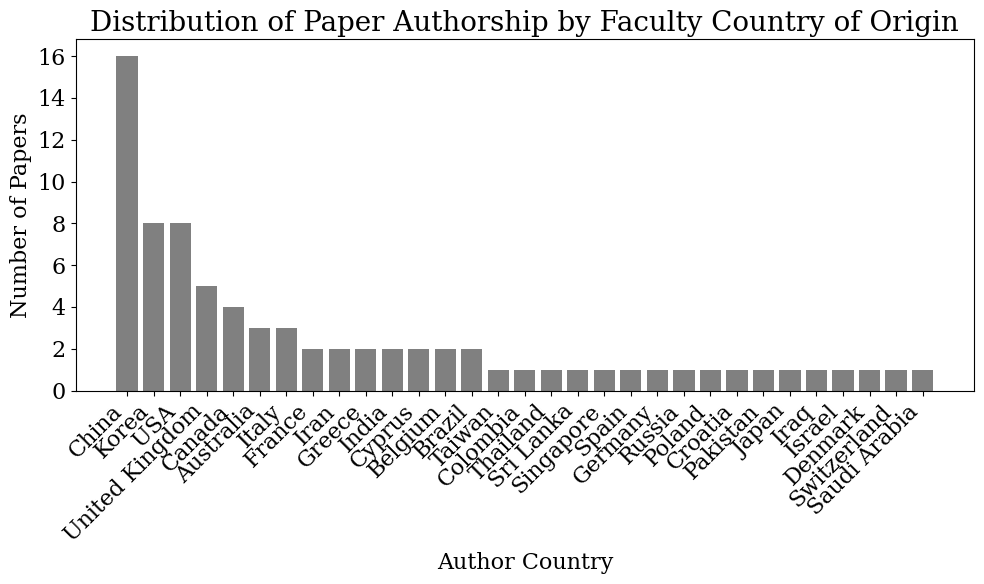
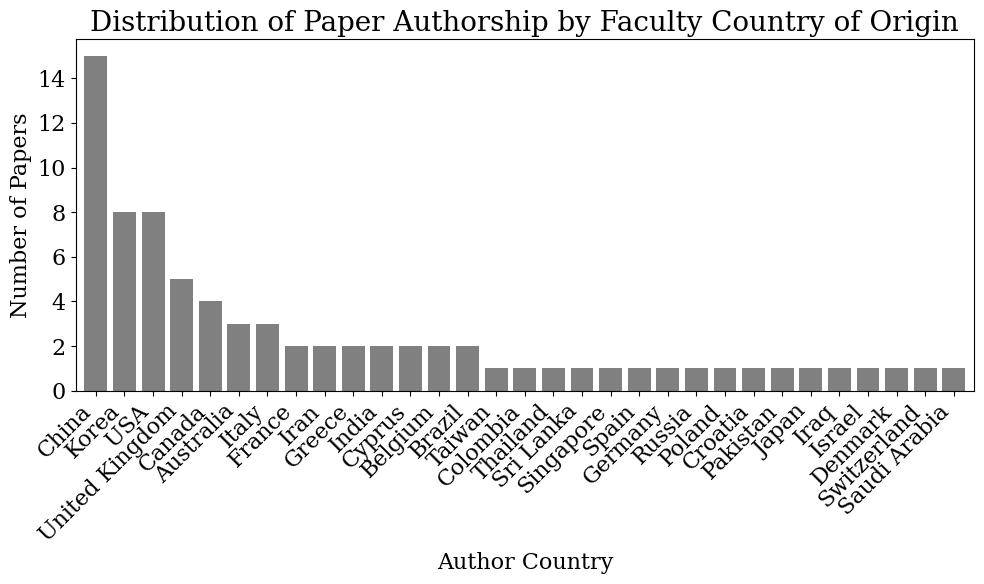
Updates from Overleaf

Changed region(s): [[0.0305, 0.0925, 1.0, 0.9247]]

diff --git a/Sections/1_introduction.tex b/Sections/1_introduction.tex
@@ -6,10 +6,11 @@
 In recent years, there has been a significant increase in the use of artificial intelligence (AI)\footnote{See Table \ref{table:abbreviations} for a list of all abbreviations used in this paper.
 } and machine learning (ML) models within finance, motivated by AI models' potential to provide price forecasts despite an efficient market \parencite{sezer2020financial}. However, a major drawback of AI models is that they are to a large extent ``black boxes'' making it difficult to understand how to interpret predictions and buy/sell recommendations. Probabilistic AI models partly alleviates this issue, as they can provide well-calibrated probabilities for different scenarios, allowing for more informed decision-making and sophisticated investment strategies. However, as this review will show, the usefulness of these probability estimates vary widely based on implementation.
 
-Despite the increasing interest in AI, financial time series modeling is still dominated by econometric models [source]. Notable examples include ARIMA-family models for predicting future values (i.e., conditional mean) and GARCH models for modeling volatility (i.e., conditional variance). The Efficient Market Hypothesis (EMH) posits that the conditional mean cannot be predicted, as all information is already incorporated into the price, and econometric models that attempt this thus has very limited predictive power, if any \parencite{Campbell2007}. However, the EMH does not preclude the possibility of predicting the conditional variance, which is essential for risk management and portfolio optimization. GARCH models are widely used for this purpose. Nevertheless, econometric models such as ARIMA and GARCH remain constrained by their simple structure, and thus cannot capture the complex patterns often present in financial data \parencite{sezer2020financial}. In contrast, AI models have shown promise in capturing these complexities but have primarily been used to provide point forecasts (i.e., conditional mean) rather than full conditional probability distributions \parencite{Tang2022Survey}. This limits both the interpretability and the practical usefulness of their predictions. Successfully applying AI models' capabilities for more complex modeling to enhance uncertainty estimates could be valuable for improving decision-making, optimizing portfolios, and identifying arbitrage opportunities in derivative pricing, among other applications.
+Despite the increasing interest in AI, financial time series modeling is still dominated by econometric models \textcolor{red}{[SOURCE]}. Notable examples include ARIMA-family models for predicting future values (i.e., conditional mean) and GARCH models for modeling volatility (i.e., conditional variance). The Efficient Market Hypothesis (EMH) posits that the conditional mean cannot be predicted, as all information is already incorporated into the price, and econometric models that attempt this thus has very limited predictive power, if any \parencite{Campbell2007}. However, the EMH does not preclude the possibility of predicting the conditional variance, which is essential for risk management and portfolio optimization. GARCH models are widely used for this purpose. Nevertheless, econometric models such as ARIMA and GARCH remain constrained by their simple structure, and thus cannot capture the complex patterns often present in financial data \parencite{sezer2020financial}. In contrast, AI models have shown promise in capturing these complexities but have primarily been used to provide point forecasts (i.e., conditional mean) rather than full conditional probability distributions \parencite{Tang2022Survey}. This limits both the interpretability and the practical usefulness of their predictions. This survey examines whether applying probabilistic AI models' capabilities for more complex modeling to enhance uncertainty estimates could be valuable for improving decision-making, optimizing portfolios, and identifying arbitrage opportunities in derivative pricing, among other applications.
 
 % Context
-\textbf{Context}\\
+\textbf{Context}\nopagebreak
+
 Probabilistic AI often refers to a Bayesian approach to machine learning, where probabilistic theory is used to infer plausible models to explain observed data \parencite{Ghahramani2015}. However, to capture all the research relevant for improving uncertainty estimates in finance, we extend the definition to include any ML/AI models that can quantify the uncertainty in their predictions or produce full distributional forecasts. These models have the potential to provide better understanding of potential future states and risk.
 
 Probabilistic AI is a rapidly evolving area, as this review will demonstrate, and includes models like Bayesian neural networks, transformers, Variational Auto-Encoders, Gaussian processes and Hidden Markov models, among others. The number of articles within the field has risen sharply the last years, with many promising results in many cases. However, the majority of AI applications in finance have focused on generating precise point forecasts for prices or returns, and the potential usefulness of probabilistic predictions has received less attention \parencite{sezer2020financial}.
@@ -19,14 +20,15 @@ When discussing quantification of prediction uncertainty, it is important to dis
 
 % Overview of research area
 
-\textbf{Overview of Research Area}\\
+\textbf{Overview of Research Area}\nopagebreak
+
 There have been several studies and reviews over the last years on the application of AI and machine learning for financial time series prediction. \textcite{gandhmalstockmarket2019}, \textcite{Li2020} and \textcite{Kumbure2022} all review machine learning techniques for stock market trend or point predictions. The studies review literature up to 2018, 2019 and 2019 respectively. \textcite{gandhmalstockmarket2019} conclude that ANN models and fuzzy-based techniques are the most promising among the reviewed machine learning approaches for accurate stock market predictions, further backed by \textcite{shi2019soft} review and implementation of soft computing approaches for stock market forecasting, also finding ANN architectures to consistently outperform other machine learning models in point prediction accuracy. \textcite{Li2020} show that LSTM implementations are most popular among the researchers utilizing deep learning methods. \textcite{Kumbure2022} conclude that most frequently utilized models where ANNs and SVMs, but conclude that deep learning models like LSTM have growing interest due to several reports of robust and improved predictions. 
 
 A newer study was conducted by \textcite{Khattak2023SurveyAIModels}, providing an in-depth review of machine learning methods used to forecast various financial assets between 2018 and 2023. The study finds new hybrid integrations of LTSM and SVM architectures to be the most effective in financial market predictions, outperforming traditional models in point accuracy.
 
 While there is a growing body of literature on AI and machine learning for financial applications, the aforementioned reviews focus solely on point prediction accuracy. Even though both epistemic and aleatoric uncertainty are essential components of financial decision making, fewer reviews have been conducted on the topic of uncertainty quantification in a financial context using machine learning methods or probabilistic models specifically. \textcite{abdar2021ReviewUQ} conduct a thorough review on uncertainty quantification in deep learning techniques, discussing the advantages and disadvantages of several models, but do not focus on financial time series predictions. The authors conclude that Deep Ensembles and Bayesian Neural Networks show promising capabilities for uncertainty quantification distinguishing between aleatoric and epistemic uncertainty, possibly applicable to financial forecasting, but find that lack of standardized benchmarks make it difficult to compare frameworks.
 
-\textcite{Blasco_et_al_2024} conduct a survey on uncertainty quantification using deep learning techniques in financial time series. The study shows that most articles do not distinguish between aleatoric and epistemic uncertainty, and few authors perform analysis on the financial implications of predictive uncertainty. However, they limit their focus to deep learning techniques, do not assess the entire probabilistic AI field, and the focus on how to use and interpret the predictions in a financial context is limited. The survey includes literature on deep learning up to 2022, but as we show in this review, production has seen an explosive increase over the last two years. 
+\textcite{Blasco_et_al_2024} conduct a survey on uncertainty quantification using deep learning techniques in financial time series. The study shows that most articles do not distinguish between aleatoric and epistemic uncertainty, and few authors perform analysis on the financial implications of predictive uncertainty. However, they limit their focus to deep learning techniques and do not assess the entire probabilistic AI field. Their focus on how to use and interpret the predictions in a financial context is also limited. The survey includes literature on deep learning up to 2022, but as we show in this review, production has seen an explosive increase over the last two years. 
 
 In light of the rapid increase in published articles on probabilistic AI over recent years and the scarcity of reviews focused on uncertainty quantification for various financial time series, this review aims to address these gaps by synthesizing the current state-of-the-art research. Additionally, prior financial studies have predominantly concentrated on stock markets; in response, this review includes a range of asset classes, examining how uncertainty quantification varies across categories. Given that the defining feature of probabilistic AI models is their capacity to provide predictions with associated uncertainties, this review places substantial emphasis on interpreting these uncertainty estimates within a financial context. Finally, existing research reveals a lack of consensus regarding the evaluation of uncertainty estimates produced by probabilistic models. Accordingly, we summarize current evaluation practices and, based on this, propose a clear framework for future work. 
 
@@ -35,7 +37,8 @@ In light of the rapid increase in published articles on probabilistic AI over re
 
 
 % Reserach questions
-\textbf{Research Questions}\\
+\textbf{Research Questions}\nopagebreak
+
 To gain an understanding of the existing research, address the gaps identified in the literature, and advance the understanding of the use of probabilistic AI for uncertainty estimates in financial time series, this review seeks to answer the following key research questions: 
 \begin{enumerate}[label=RQ\arabic*:]
     \item Summarize to what extent and in what way existing research are using uncertainty estimates from probabilistic AI models as measures of volatility, model uncertainty, or financial risk.
@@ -52,12 +55,32 @@ We will answer the questions directly in Section \ref{sec:discussion}, but they 
  
 % Contributions
 % \textit{How review addresses the specific applications in finance and recent advancements in probabilistic AI}
-\textbf{Contributions}\\
-The literature on probabilistic AI applications in finance is limited, and this review aims to fill the gap by focusing on recent advances in probabilistic AI and application within fiance due to the novelty and rapid evolution of probabilistic AI. Specifically, the review explores how probabilistic AI model can improve uncertainty estimates, and clarify the potential strengths and limitations highlighted in literature of such models in a financial context. Given the novelty and the rapid evolution, many researchers might have limited knowledge of the field and its potential. This review shines light on whether adopting and further researching machine learning for uncertainty estimates in finance is useful or not. Furthermore, we will discuss whether it is appropriate to interpret quantified uncertainty from AI models as volatility estimates and how to benchmark volatility estimates from probabilistic AI models. We identify which probabilistic machine learning models are used in the field and are most promising for further research and highlights areas for future research and where advancements in uncertainty quantification is needed. 
+\textbf{Contributions}\nopagebreak
 
-Ultimately, the review will serve as an overview of the field and guide for researchers who want to apply or advance probabilistic AI in finance. 
+This review addresses a significant gap in the literature by systematically analyzing the application of probabilistic AI models in finance, with a focus on their potential to improve uncertainty estimation in financial forecasting. While probabilistic AI is a rapidly evolving field, its adoption and understanding within financial contexts remain limited. This review contributes to the field by offering a comprehensive overview of recent advances and identifying key strengths and limitations of these models in practice.
 
+Specifically, this work explores how probabilistic AI models can enhance uncertainty estimates, distinguishing between aleatoric (data-driven) and epistemic (model-driven) uncertainty, and assesses their relevance for financial decision-making. In doing so, the review sheds light on whether probabilistic AI offers a meaningful improvement over traditional econometric models (e.g., GARCH) in quantifying and interpreting risk and volatility.
+
+Key contributions include:
+
+\begin{enumerate}
+    \item Systematically Examining How Probabilistic AI is Used in Finance: We examine whether quantified uncertainty from probabilistic AI models can be interpreted as volatility estimates, providing insights into their suitability for financial risk measures such as Value at Risk (VaR) and Expected Shortfall (ES).
+    \item Benchmarking and Evaluation: The review identifies best practices and gaps in benchmarking probabilistic AI models against traditional approaches, highlighting the need for standardized evaluation frameworks for predictive accuracy and uncertainty quantification.
+    \item Identification of Most Widely Used Models: We catalogue the probabilistic machine learning models most widely used in finance, such as Bayesian Neural Networks (BNNs), Gaussian Processes (GPs), and Probabilistic Recurrent Neural Networks (RNNs), and evaluate their potential for further research and application.
+    \item Practical Guidance for Researchers: The review emphasizes how adopting probabilistic AI models can advance financial analysis by incorporating both point predictions and full distributional forecasts, enabling improved risk assessment, portfolio optimization, and market simulation.
+    \item Roadmap for Future Research: We highlight key areas for advancing uncertainty
+quantification in finance, including:
+        \begin{itemize}
+            \item Using non-parametric distributions from probabilistic AI models to improve risk measures
+            \item Separating epistemic from aleatoric uncertainty when using AI models with uncertainty quantification
+            \item Establishing a standardized testing and benchmarking framework to prove that new proposed models are significant improvements over existing traditional models, while also establishing a practice of making code available so that the field can advance by successively building upon and testing against previously proposed models
+            \item More inter-disciplinary collaboration to ensure that proposed models appropriately incorporates financial knowledge and state-of-the-art AI techniques
+        \end{itemize}
+\end{enumerate}
+
+Ultimately, this review aims to serve as a foundational resource and guide for researchers and practitioners looking to apply or extend probabilistic AI techniques within finance, bridging the gap between machine learning advancements and financial applications.
 
 % Concluding paraghaph outlining the structure of the paper 
-\textbf{Structure of the Paper}\\
+\textbf{Structure of the Paper}
+
 The literature review is structured as follows: Section \ref{sec:methodology} covers the Methodology, detailing the review and analysis process. Section \ref{sec:result_and_discussion} presents the Results and Discussion, including descriptive statistics and evaluation across different dimensions. Finally, Section \ref{sec:conclusion} provides the Conclusion, summarizing key findings and suggestions for future research. 

diff --git a/Sections/3_results_and_discussion.tex b/Sections/3_results_and_discussion.tex
@@ -6,12 +6,12 @@
 %----------------------------------------------------%
 
 \subsection{Brief Descriptive Statistics}
-The review identified 61 articles published between 2004 and 2024. Scientific output in this area has accelerated in recent years, with the majority of papers published after 2020. Illustrated in Figure \ref{fig:scientific_productivity}, the number of published papers matching the screening criteria has increased significantly in recent years, peaking in 2024 with 13 publications after a rapid growth since 2018. Thus, it is possible that the field has advanced significantly in the later years, underscoring the need for a comprehensive literature review.
+The review identified \samplesize articles published between \samplestart and \sampleend. Scientific output in this area has accelerated in recent years, with the majority of papers published after 2020. Illustrated in Figure \ref{fig:scientific_productivity}, the number of published papers matching the screening criteria has increased significantly in recent years, peaking in 2024 with \articlesthisyear publications after a rapid growth since 2018. Thus, it is possible that the field has advanced significantly over the last years, underscoring the need for a comprehensive literature review.
 
 \begin{figure}[H]
     \centering
     \includegraphics[width=1\linewidth]{Images/scientific_productivity.png}
-    \caption{Annual distribution of papers in the field published included in the sample, illustrating the recent increase in publications}
+    \caption{Annual distribution of papers in the field published included in the sample, illustrating the recent increase in publications.}
     \label{fig:scientific_productivity}
 \end{figure}
 
@@ -68,11 +68,11 @@ Only 10 of 61 papers disclose the code for the proposed models. This lack of cod
 
 \subsection{Analysis by Model}
 \label{sec:analysis_by_model}
-To give an overview of the field, we present the most predominantly used probabilistic models in the sample papers, give a description of them, depict their use, and provide an overview of how they are used to create uncertainty estimates in financial time series. Table \ref{table:model_categorization} provides an overview of probabilistic model categories created based on grouping the most commonly used model types, and specifically what model names in the papers they include. Figure \ref{fig:model_breakdown} illustrates the occurrence of each probabilistic model category, and if they are used independently or in combination with other machine learning or econometric models. Summarizing results and conclusions by model type are shown in Table \ref{table:conclusions_by_model}.
+To give an overview of the field, we present the most predominantly used probabilistic models in the sample papers, give a description of them, depict their use, and provide an overview of how they are used to create uncertainty estimates in financial time series. Table \ref{table:model_categorization} provides an overview of probabilistic model categories created based on grouping the most commonly used model types. Figure \ref{fig:model_breakdown} illustrates the occurrence of each probabilistic model category, and if they are used independently or in combination with other machine learning or econometric models. The figure shows that while many researchers combine different ML models, few researchers combine ML models with traditional models, indicating a potential gap in the literature. Summarizing results and conclusions by model type are shown in Table \ref{table:conclusions_by_model}.
 
 \begin{table}[H]
     \centering
-    \caption[Model Categorization]{Probabilistic Model Categorization}
+    \caption[Model Categorization]{Probabilistic Model Categorization.}
     \label{table:model_categorization}
     \small
     \begin{adjustbox}{width=0.5\textwidth,center}
@@ -121,9 +121,8 @@ To give an overview of the field, we present the most predominantly used probabi
 \end{table}
 
 \begin{figure}[H]
-    \centering
-    \includegraphics[width=1\linewidth]{Images/model_breakdown.png}
-    \caption{Probabilistic Model Usage Breakdown}
+    \centering    \includegraphics[width=1\linewidth]{Images/model_breakdown.png}
+    \caption{Breakdown of probabilistic model usage in research papers across pure, hybrid, and compositional approaches.}
     \label{fig:model_breakdown}
 \end{figure}
 
@@ -363,7 +362,7 @@ Table \ref{table:conclusions_by_model} summarize conclutions by model type.
 
 \begin{table}[H]
     \centering
-    \caption[Summarizing conclusions by model type]{Summarizing conclusions by model type}
+    \caption[Summarizing Conclusions by Model Type]{Summarizing conclusions by model type.}
     \label{table:conclusions_by_model}
     \small
     \begin{adjustbox}{width=0.5\textwidth,center}
@@ -447,7 +446,7 @@ To enhance the understanding of probabilistic AI applications in financial time 
 \begin{figure}[H]
     \centering
     \includegraphics[width=1\linewidth]{Images/model_output.png}
-    \caption{Distribution of model output categories that the models in the papers provide, note that some papers provide multiple outputs }
+    \caption{Distribution of model output categories provided by the models in the papers, with some papers offering multiple outputs.}
     \label{fig:model_output}
 \end{figure}
 
@@ -576,7 +575,7 @@ However, none of the reviewed articles employing categorization models offer a c
 \subsubsection{Conclusion} % deside if we need this
 \begin{table}[H]
     \centering
-    \caption[Summarizing conclusions of analysis by target variable]{Summarizing conclusions by target variable}
+    \caption[Summarizing conclusions of analysis by target variable]{Summarizing conclusions by target variable.}
     \label{table:conclusions_by_target_variable}
     \small
     \begin{adjustbox}{width=0.5\textwidth,center}
@@ -627,7 +626,7 @@ The motivations for making predictions and quantifying uncertainty, as well as t
 \begin{figure}[H]
     \centering
     \includegraphics[width=1\linewidth]{Images/articles_per_asset_type_predicted.png}
-    \caption{Asset type predicted}
+    \caption{Asset type predicted across papers}
     \label{fig:asset_type_predicted}
 \end{figure}
 \makeatletter
@@ -718,7 +717,7 @@ Table \ref{table:conclusions_by_asset_classes} provides a summary of the primary
 
 \begin{table}[H]
     \centering
-    \caption[Summarizing conclusions by asset classes]{Summarizing conclusions by asset classes}
+    \caption[Summarizing conclusions by asset classes]{Summarizing conclusions by asset classes.}
     \label{table:conclusions_by_asset_classes}
     \small
     \begin{adjustbox}{width=0.5\textwidth,center}
@@ -778,7 +777,7 @@ Furthermore, only a minority of articles evaluate the quality and usefulness of 
 \begin{figure}[H]
     \centering
     \includegraphics[width=1\linewidth]{Images/uncertainty_quantification_by_type_and_assessment.png}
-    \caption{Authors' interpretation of the uncertainty estimates from the models and whether they have assessed the correctness of the uncertainty estimates}
+    \caption{Authors' interpretation of the uncertainty estimates from the models and whether they have assessed the correctness of the uncertainty estimates.}
     \label{fig:uncertainty_quantification_by_type_and_assessment}
 \end{figure}
 
@@ -806,11 +805,11 @@ As with other uncertainty estimates, it is possible to test the adequacy of epis
 \subsubsection{Aleatoric (volatility)}
 There are only four articles in the sample that interprets the quantified uncertainty as exclusively aleatoric uncertainty, meaning the underlying data uncertainty, which in finance is referred to as the latent volatility. This is of major interest within finance, as it is the primary measure for risk, and often the basis for deriving other risk measures \parencite{Brooks2003VolatilityFF}.
 
-Two of the articles in the sample \parencite{arian2022encoded, xing2019sentiment} do this through the use of Variational Auto-Encoders, that can generate non-parametric output distributions through repeated sampling, thereby capturing a spectrum of potential future scenarios, as described in \ref{sec:distribution}.
+Two of the articles in the sample \parencite{arian2022encoded, xing2019sentiment} do this through the use of Variational Auto-Encoders, that can generate non-parametric output distributions through repeated sampling, thereby capturing a spectrum of potential future scenarios, as described in Section \ref{sec:distribution}.
 
 The two other articles use Quantile Regression Deep Learning \parencite{Wang2024GoldForecasting} that quantifies aleatoric uncertainty through estimating several quantiles of the underlying distribution, and MaxEnt-modeling which is an application of the maximum entropy principle \parencite{Horenko2020}.
 
-Testing the quality of aleatoric uncertainty estimates can be conducted similar to testing the quality of financial risk measures in \ref{sec:financial_risk_measures}. It should be ensured that the model on average produces uncertainty estimates of the correct magnitude (i.e. coverage testing) and that it is able to capture the heteroscedasticity of financial time series (i.e. conditional coverage testing). Additionally, it is useful to assess performance relative to traditional models using scoring metrics such as coverage relative to width, negative log-likelihood (NLL), and interval scores.
+Testing the quality of aleatoric uncertainty estimates can be conducted similar to testing the quality of financial risk measures in Section \ref{sec:financial_risk_measures}. It should be ensured that the model on average produces uncertainty estimates of the correct magnitude (i.e. coverage testing) and that it is able to capture the heteroscedasticity of financial time series (i.e. conditional coverage testing). Additionally, it is useful to assess performance relative to traditional models using scoring metrics such as coverage relative to width, negative log-likelihood (NLL), and interval scores.
 
 All four mentioned articles apply relevant scoring metrics and all except \textcite{Wang2024GoldForecasting} compare their results to GARCH and similar models. However, only \parencite{arian2022encoded} and \parencite{Horenko2020} conduct statistical tests for adequacy.
 
@@ -854,13 +853,13 @@ In \textcite{soleymani2022longterm} use the probabilistic output from a BNN to m
 
 \begin{table}[H]
     \centering
-    \caption[Evaluation Criteria for Uncertainty Quantification]{Assessment Criteria for Uncertainty Estimates}
+    \caption[Evaluation Criteria for Uncertainty Quantification]{Assessment Criteria for Uncertainty Estimates.}
     \label{table:evaluation_criteria}
     \small
     \begin{adjustbox}{width=0.5\textwidth,center}
     \begin{tabular}{p{0.1\textwidth}p{0.12\textwidth}p{0.22\textwidth}p{0.06\textwidth}}
         \toprule
-        \textbf{Evaluation Criteria} & \textbf{Description} & \textbf{Measures} & \textbf{Articles\tablefootnote{See Appendix \ref{appendix:descriptive_table_of_all_articles} for full overview of all articles }} \\
+        \textbf{Evaluation Criteria} & \textbf{Description} & \textbf{Measures} & \textbf{Paper Count\tablefootnote{See Appendix \ref{appendix:descriptive_table_of_all_articles} for full overview of all articles }} \\
         \midrule
         Coverage Probability & Measures how often values fall within a given predictive interval & Coverage probability, Prediction interval coverage probability (PICP), Mean Coverage (MC) & 11 \\
         \addlinespace
@@ -913,7 +912,7 @@ In \textcite{soleymani2022longterm} use the probabilistic output from a BNN to m
 Table \ref{table:conclusions_by_uncertainty} summarize the the key findings from the analysis by type of uncertainty.
 \begin{table}[H]
     \centering
-    \caption[Summarizing conclusions by type of uncertainty]{Summarizing conclusions by type of uncertainty}
+    \caption[Summarizing conclusions by type of uncertainty]{Summarizing conclusions by type of uncertainty.}
     \label{table:conclusions_by_uncertainty}
     \small
     \begin{adjustbox}{width=0.5\textwidth,center}
@@ -965,9 +964,9 @@ This section will analyze the results in relation to each of the research questi
 
 
 
-\textbf{RQ1: Summarize to what extent and in what way existing research are using uncertainty estimates from probabilistic AI models as measures of volatility or model uncertainty, or as financial risk measures for financial time series}\nopagebreak
+\textbf{RQ1: Summarize to what extent and in what way existing research are using uncertainty estimates from probabilistic AI models as measures of volatility, model uncertainty, or financial risk.}\nopagebreak
 
-Throughout this review we have seen that while the field of probabilistic AI for financial time series remains relatively small and fragmented, it is in rapid development. Commonly employed models discussed in section \ref{sec:analysis_by_model} include Bayesian Neural Networks (BNNs), Gaussian Regression Processes (GPRs) and probabilistic Recurrent Neural Network (RNN) extension. The primary focus of existing research seems to concern improving point prediction accuracy for different assets, and the potential for uncertainty estimation is underutilized. Out of the 61 articles reviewed, only 26 make a meaningful interpretation of uncertainty estimates generated by their models, and 23 of these somehow assess the quality of their estimates, while 35 studies do not use or interpret uncertainty estimates at all. 
+Throughout this review we have seen that while the field of probabilistic AI for financial time series remains relatively small and fragmented, it is in rapid development. Commonly employed models discussed in Section \ref{sec:analysis_by_model} include Bayesian Neural Networks (BNNs), Gaussian Regression Processes (GPRs) and probabilistic Recurrent Neural Network (RNN) extension. The primary focus of existing research seems to concern improving point prediction accuracy for different assets, and the potential for uncertainty estimation is underutilized. Out of the 61 articles reviewed, only 26 make a meaningful interpretation of uncertainty estimates generated by their models, and 23 of these somehow assess the quality of their estimates, while 35 studies do not use or interpret uncertainty estimates at all. 
 
 Section \ref{sec:analysis_by_type_of_uncertainty} reveal that the majority of studies (18) interpret uncertainty estimates created as total uncertainty in predictions, rather than as a measure of volatility (aleatoric) or distinguishing between uncertainty types. Only 8 articles explicitly interpret uncertainty estimates as volatility, four of which distinguish between aleatoric and epistemic uncertainty and four only estimate aleatoric. No specific models or approaches seem to dominate among these. Use of uncertainty estimates from probabilistic AI models as a measure of volatility is thus limited. 
 

diff --git a/Sections/2_methodology.tex b/Sections/2_methodology.tex
@@ -2,9 +2,9 @@
 \label{sec:methodology}
 
 % Avsnitt om hva slags type review dette er og hvorfor vi har valgt den typen
-To ensure reproducible and unbiased results, this review follows a structured methodology. As noted by \textcite{tranfield_et_al}, traditional literature reviews often lack systematic rigor, making it challenging to determine the validity of their conclusions. To address this issue, each stage of the review was conducted systematically, guided by established literature review frameworks, particularly \textcite{snyder_2019} and \textcite{marzi_et_al_2024}. Given the purpose of mapping current use and impact of probabilistic AI models for uncertainty estimations in financial time series, the review adopts a structured systematic literature review (SLR) approach in line with \textcite{snyder_2019}. This ensures that the review is both exhaustive and focused on capturing the rapid development in the field and addressing the identified research gaps. 
+To ensure reproducible and unbiased results, this review follows a structured methodology. As noted by \textcite{tranfield_et_al}, traditional literature reviews often lack systematic rigor, making it challenging to determine the validity of their conclusions. To address this issue, each stage of the review was conducted systematically, guided by established literature review frameworks, particularly \textcite{snyder_2019} and \textcite{marzi_et_al_2024}. The review adopts a structured systematic literature review (SLR) approach in line with \textcite{snyder_2019}, ensuring that the review is exhaustive and able to identify the most important research gaps. 
 
-The review design and screening process followed the proposed steps by \textcite{marzi_et_al_2024}: (1) research question and boundary definitions, (2) search query definition, (3) database selection, (4) data screening and cross-checks and (5) data cleaning and export. This approach aligns with the design and conduct phases proposed by \textcite{snyder_2019}. Holistic and specific cluster thematic analysis was subsequently conducted as per \textcite{marzi_et_al_2024}, while bibliometric analysis following their (B-SLR) framework was also conducted, but excluded due to uninformative results. The cluster topic identification method for the specific cluster thematic analysis suggested by \cite{marzi_et_al_2024} was considered but not pursued as the field is too small and fragmented for meaningful clusters to appear. Instead, a framework for breaking down the sample by the dimensions deemed important to answer the research questions was adopted. 
+The review design and screening process followed the proposed steps by \textcite{marzi_et_al_2024}: (1) defining research questions and boundaries, (2) defining search queries, (3) selecting databases, (4) screening and cross-checking data and (5) cleaning and exporting data. This approach aligns with the design and conduct phases proposed by \textcite{snyder_2019}. Holistic and specific cluster thematic analysis was subsequently conducted as per \textcite{marzi_et_al_2024}, while bibliometric analysis following their (B-SLR) framework was also conducted, but excluded due to uninformative results. The cluster topic identification method for the specific cluster thematic analysis suggested by \cite{marzi_et_al_2024} was considered but not pursued as the field is too small and fragmented for meaningful clusters to appear. Instead, a framework for breaking down the sample by the dimensions deemed important to answer the research questions was adopted. 
 
 The exact process is outlined below, and reported according to \textcite{marzi_et_al_2024}'s guidelines.
 
@@ -20,7 +20,7 @@ A comprehensive search and filtering strategy was developed to ensure the review
 
 \begin{table}[H]
     \centering
-    \caption[Keywords used in database search queries]{Keywords used in database search queries across four key areas. Papers must match at least one term in each of the four categories to be included in the sample.}
+    \caption[Keywords used in database search queries]{Keywords used in database search queries across four key areas. Papers must match at least one term in each of the four categories to be included in the initial sample.}
     \label{table:keywords_used}
     \begin{adjustbox}{width=0.5\textwidth,center}
     \begin{tabular}{p{0.15\textwidth}p{0.35\textwidth}}
@@ -44,16 +44,16 @@ The search was conducted across all the databases in October 2024, yielding a co
 \begin{figure}[H]
     \centering
     \includegraphics[width=1\linewidth]{Images/search_sample_by_database.png}
-    \caption{Number of paper results per database based on search queries}
+    \caption{Number of paper results per database based on search queries.}
     \label{fig:search_sample_by_database}
 \end{figure}
 
 
 
 % Avsnitt om screening
-\textbf{Exclusion criteria}\nopagebreak
+\textbf{Inclusion criteria}\nopagebreak
 
-Following the definition of the search strategy, inclusion criteria for the screening process was defined. Three main criteria was defined for the first screening phase:
+Following the definition of the search strategy, inclusion criteria for the screening process was defined. Three main criteria were defined for the first screening phase:
 
 \begin{enumerate}
     \item The article must discuss a model that predicts the price of some financial instrument (e.g. a stock, an option, an index, etc.)
@@ -61,7 +61,7 @@ Following the definition of the search strategy, inclusion criteria for the scre
     \item The model must be able to provide more than a point prediction, i.e. it includes either variance, a distribution or some other financial risk measure such as VaR
 \end{enumerate}
 
-Furthermore, some explicit criteria in cases of doubt in the aforementioned three was constructed:
+Furthermore, some explicit rules in cases of doubt in the aforementioned three was constructed:
 \begin{itemize}
     \item Articles focusing on commodities were included only if they predicted futures prices, except for gold and oil, which closely resemble financial time series and correlate with financial variables \parencite{Gokmenoglu2015}
     \item Studies must demonstrate practical implementation of the proposed models, not merely discuss theoretical frameworks
@@ -74,8 +74,9 @@ These became especially relevant during screening phase 2 when full-text screeni
 
 \textbf{Screening Phase 1: Initial Screening}\nopagebreak
 
-After obtaining the initial set of papers, phase 1 screening process started. In this stage, the purpose was to remove articles irrelevant to the research questions to be addressed in the review.
-To make the screening process more efficient, a large language model (``o1-mini'' from OpenAI) was given the title and abstract of each article and tasked with generating a short summary and assessing compliance with each criteria. Subsequently, the results from the language model, along with the title, abstract and a link to the full article was given to one of the researchers to make a decision on whether to include or exclude each article. Through this process, we were able to quickly make decisions on obvious cases, and do a more thorough assessment where we potentially could open and scan the article in cases of doubt, thus enabling us to screen a large number of articles in a short amount of time, and making thorough assessments that were not based solely on the title and the abstract. The exact process is outlined in Appendix \ref{appendix:screening_process_with_ai} and the code used is published at \href{https://github.com/tjespe/literature-review/}{Github}\footnote{\label{footnote:github_link}\href{https://github.com/tjespe/literature-review/}{https://github.com/tjespe/literature-review/}}. Through this process, the number of articles in the sample was reduced from 326 to 133.
+After obtaining the initial set of papers, the Phase 1 screening process started. In this stage, the purpose was to remove articles irrelevant to the research questions to be addressed in the review.
+
+To make the screening process more efficient, a large language model (``o1-mini'' from OpenAI) was given the title and abstract of each article and tasked with generating a short summary and assessing compliance with each criteria. Subsequently, the results from the language model, along with the title, abstract and a link to the full article was given to one of the researchers to make a decision on whether to include or exclude each article. Through this process, we were able to quickly make decisions on obvious cases, and do a more thorough assessment where we potentially could open and skim through the article in cases of doubt, thus enabling us to screen a large number of articles in a short amount of time, and making thorough assessments that were not based solely on the title and the abstract. The exact process is outlined in Appendix \ref{appendix:screening_process_with_ai} and the code used is published at \href{https://github.com/tjespe/literature-review/}{Github}\footnote{\label{footnote:github_link}\href{https://github.com/tjespe/literature-review/}{https://github.com/tjespe/literature-review/}}. Through this process, the number of articles in the sample was reduced from 326 to 133.
 
 % Avsnitt om snowball effect - XX articles were added to sample by snowball effect
 
@@ -84,9 +85,9 @@ To make the screening process more efficient, a large language model (``o1-mini'
 % Avsnitt om den initielle analysen (taggingen)
 \textbf{Screening Phase 2: Full-text screening, Data extraction and Analysis}\nopagebreak
 
-Following the initial screening and dataset extraction, a second, more comprehensive screening was performed, involving full-text review and thorough evaluation of each article. Data was extracted on key information about each article, such as the type of probabilistic model used, any hybrid model integrations, target variable, type of uncertainty addressed, metrics used for assessing uncertainty estimates, how the model compared to benchmarks etc. Each article was tagged and categorized based on these variables which were summarized in a structured format for subsequent analysis and descriptive statistics. 
+Following the initial screening and dataset extraction, a second, more comprehensive screening was conducted, involving full-text review and thorough evaluation of each article. Data was extracted on key information about each article, such as the type of probabilistic model used, any hybrid model integrations, target variable, type of uncertainty addressed, metrics used for assessing uncertainty estimates, how the model compared to benchmarks etc. Each article was tagged and categorized based on these variables which were summarized in a structured format for subsequent analysis and descriptive statistics. 
 
-In this detailed evaluation a deeper understanding of each article and its model implementation was achieved, leading to the exclusion of several articles not passing the aforementioned criteria after all. These exclusions were not identifiable during the initial screening, due to lack of depth in model implantation understanding before reading full-text. Typical exclusions in this phase was: the model could not be considered AI or ML after all, the proposed model was not implemented practically, the model failed to produce probabilistic outputs, or the model predicted categories without well calibrated probabilities. Therefore, the final sample size of included articles presented in this paper is 61 articles. Figure \ref{fig:screening_and_cleaning_funnel} illustrates how the sample size was reduced down through the cleaning and screening. 
+In this detailed evaluation a deeper understanding of each article and its model implementation was achieved, leading to the exclusion of several articles not passing the aforementioned criteria after all. These exclusions were not identifiable during the initial screening, mostly due to the difficulty of fully understanding the model implementation details before reading full-text. Typical exclusions in this phase was: the model could not be considered AI or ML after all, the model architecture was only discussed and not actually implemented, the model did not actually have the ability to produce probabilistic outputs, or the model predicted categories without well calibrated probabilities. Therefore, the final sample size of included articles presented in this paper is \samplesize articles. Figure \ref{fig:screening_and_cleaning_funnel} illustrates how the sample size was reduced down through the cleaning and screening. 
 
   \begin{figure*}[h]
       \centering
@@ -104,5 +105,5 @@ Descriptive statistics and analysis were generated using a Python Jupyter Notebo
 % Avsnitt om den videre analysen (altså breakdown by model, by target variable, etc.): hvorfor og hvordan har vi gjort det?
 \textbf{Approach for Further Analysis}\nopagebreak
 
-The further analysis of the articles follows a structured breakdown along several dimensions to analyze and review the literature on probabilistic AI and uncertainty estimation in financial time series. The analysis is broken down by type of model, output of model, asset class and type of uncertainty. Each section will provide insights that informing the research questions before concrete conclusions are presented for each question. The dimensions used to analyze the sample align with those commonly employed in similar reviews, providing a structured framework to effectively assess the current state of research \parencite{Blasco_et_al_2024}.
+The further analysis of the papers follows a structured breakdown along several dimensions: type of model, output of model, asset class and type of uncertainty. Each section will provide insights that inform the research questions before concrete conclusions are presented for each question in Section \ref{sec:discussion}. The dimensions used to analyze the sample align with those commonly employed in similar reviews, providing a structured framework to effectively assess the current state of research \parencite{Blasco_et_al_2024}.
 

diff --git a/Appendices/appendix.tex b/Appendices/appendix.tex
@@ -42,6 +42,7 @@
         ECE & Expected Calibration Error \\
         ECD & Expected Calibration Distance \\
         EGARCH & Exponential GARCH \\
+        EMH & Efficient Market Hypothesis \\
         ESVM & Echo State Volatility Model \\
         EWSVM & Enhanced Weighted Support Vector Machine \\
         FINAW & Forecasting Interval Normalized Average Width \\
@@ -114,6 +115,7 @@
         VDM & Variational Mode Decomposition \\
         VOGN & Variational Online Gauss-Newton \\
         XAI & Explainable AI \\
+        & \\
         \bottomrule
         \end{tabular}
     \end{subtable}

diff --git a/main.tex b/main.tex
@@ -4,6 +4,9 @@
 % Importing settings from our file "setup.sty"
 \usepackage{setup}
 
+% Import variables
+\import{./}{variables}
+
 % Page header and footer customization ADDED BY GRUDE  ----------------------------
 \usepackage{fancyhdr}  % For custom headers and footers ADDED BY GRUDE
 \pagestyle{fancy}

diff --git a/variables.tex b/variables.tex
@@ -1,0 +1,5 @@
+% Final size of the sample
+\newcommand\samplesize{60\xspace}
+\newcommand\samplestart{2004\xspace}
+\newcommand\sampleend{2024\xspace}
+\newcommand\articlesthisyear{13\xspace}
